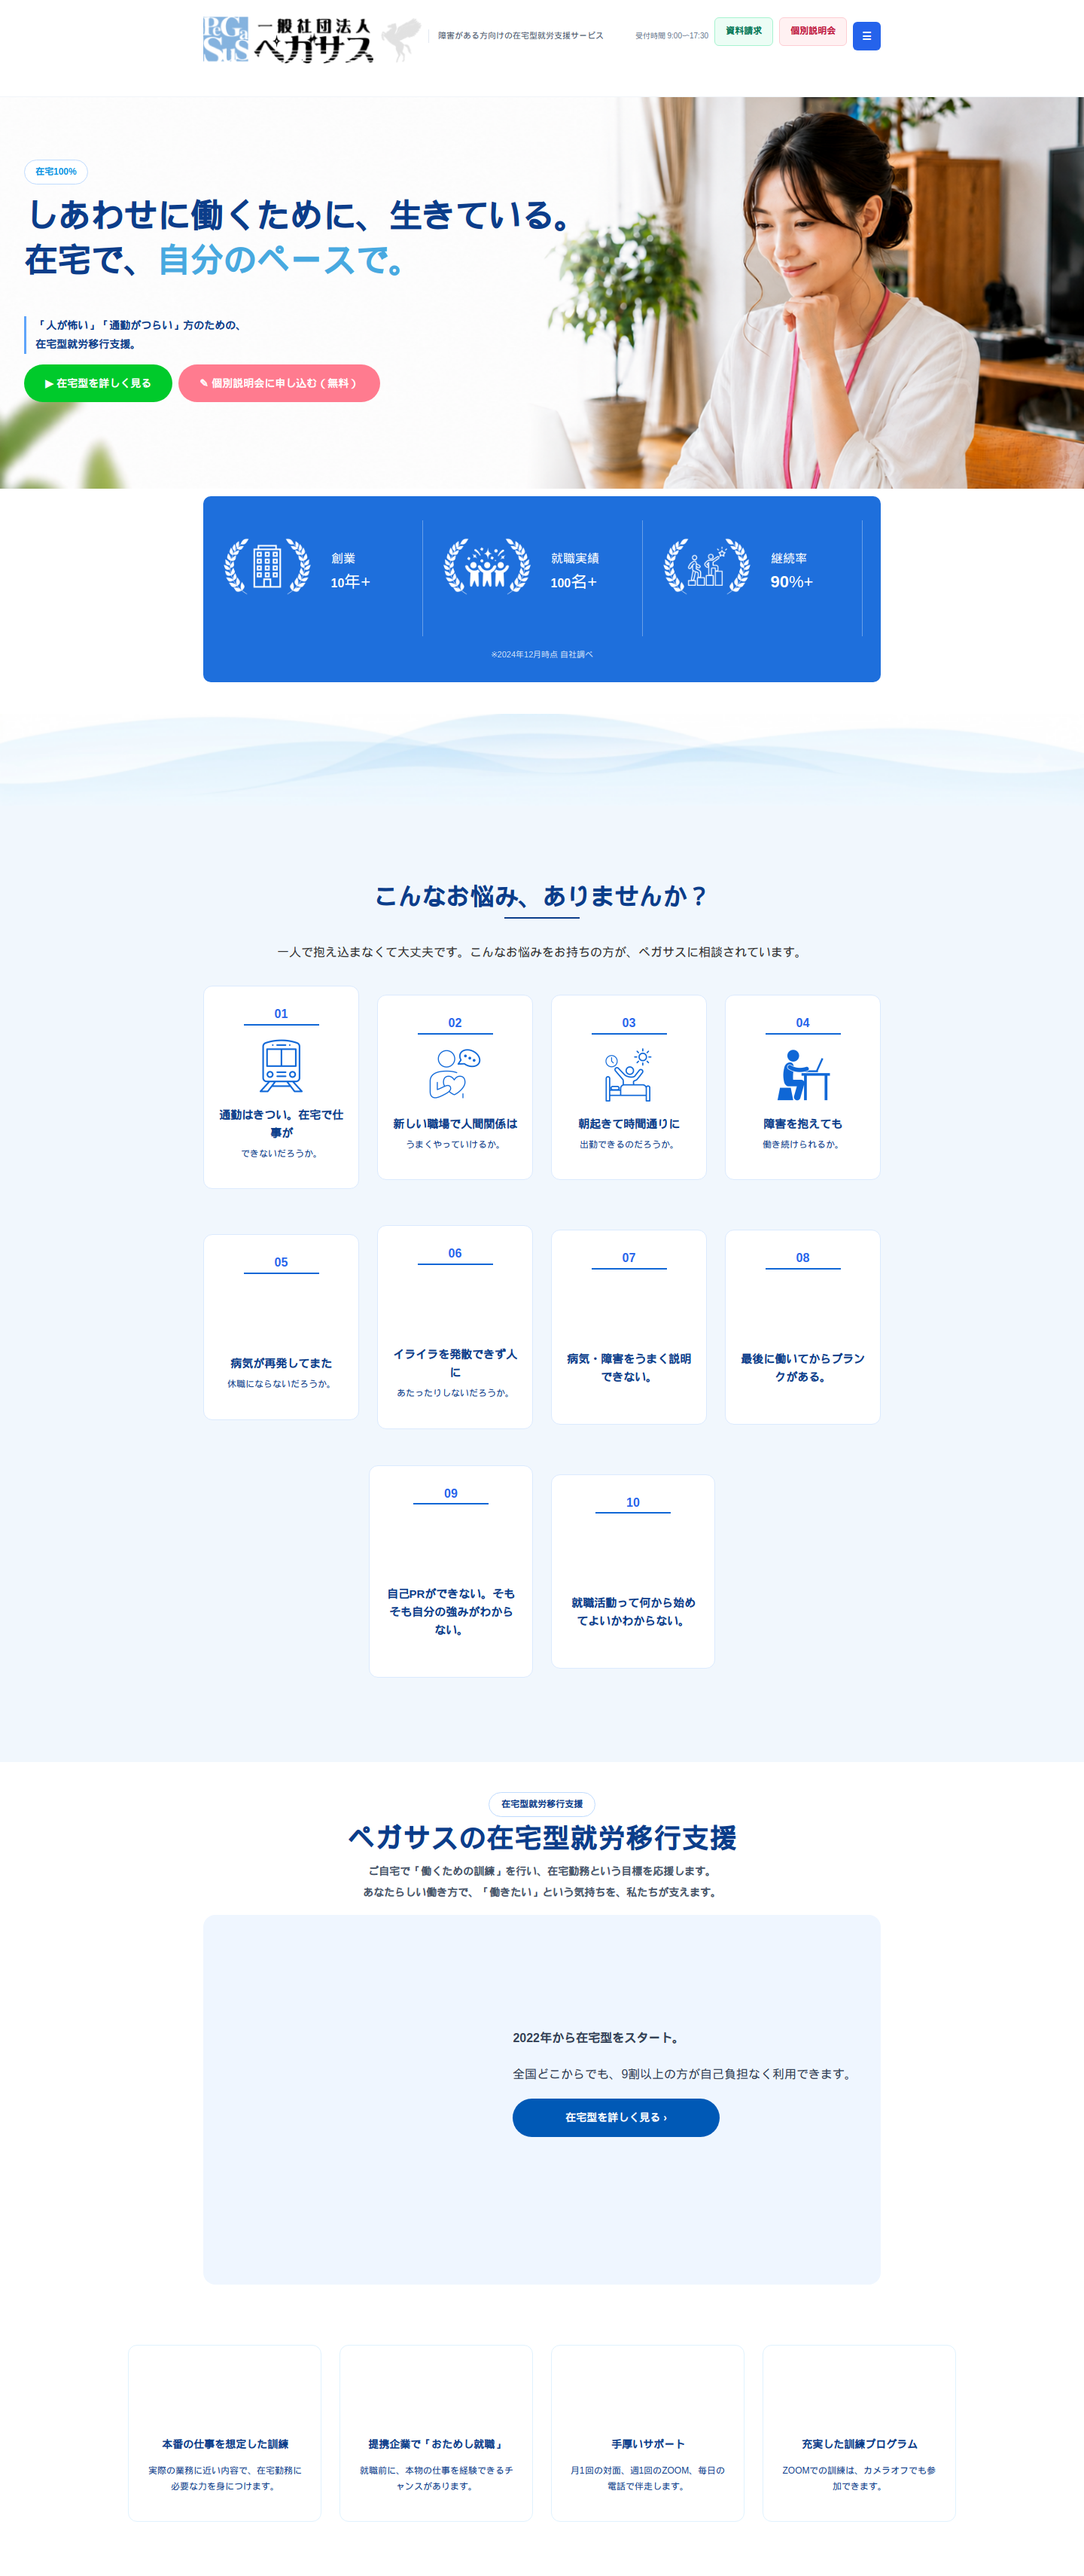
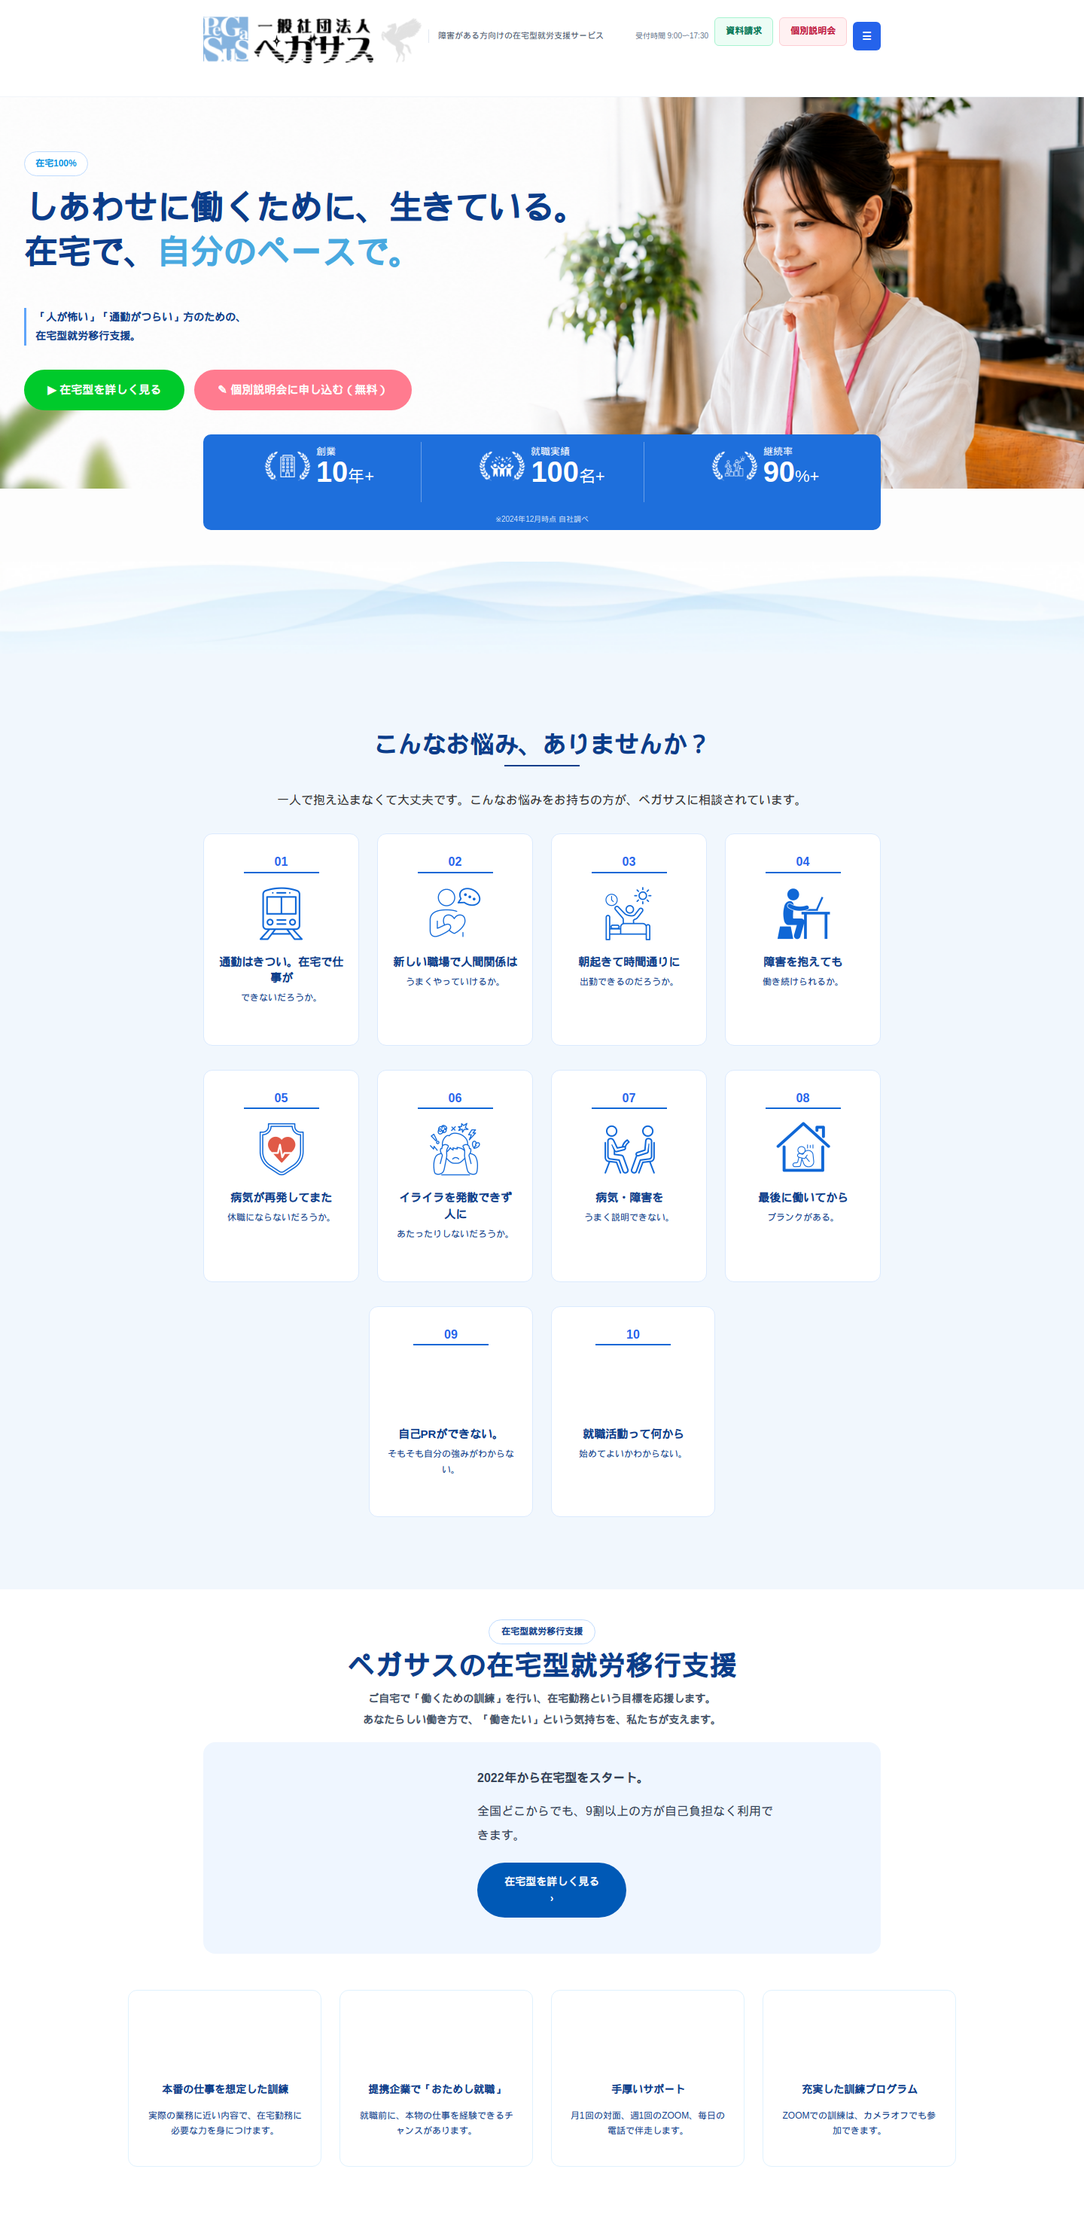
チェックポイント: 在宅支援 align 属性修正前
デスクトップ帯調整・お悩み07-10分割・在宅支援CSS(推測ベース)の作業状態を保存。

diff --git a/scripts/code-snippets/php/pega-css-04-homeworker.php b/scripts/code-snippets/php/pega-css-04-homeworker.php
@@ -181,38 +181,121 @@ add_action( 'wp_enqueue_scripts', function () {
 	margin: 0 auto !important;
 	display: table !important;
 }
-.page-id-4929 .pega-service-intro > .wp-block-group.u-mb-0 {
+.page-id-4929 .pega-service-intro > .wp-block-group.u-mb-0:not(.has-background) {
 	padding: 0 !important;
 }
 .page-id-4929 .pega-service-intro .supports {
 	margin-top: 80px !important;
 }
 
-/* swell-page (4929) — デスクトップ帯域(1025px+) 在宅支援画像の収まり（項目7） */
+/* swell-page (4929) — デスクトップ帯域(1025px+) 在宅支援レイアウト */
 @media (min-width: 1025px) {
+	.page-id-4929 .pega-service-intro .wp-block-group__inner-container > .wp-block-group.u-mb-10,
+	.page-id-4929 .pega-service-intro .wp-block-group.is-stack.u-mb-10 {
+		display: flex !important;
+		flex-direction: column !important;
+		align-items: center !important;
+		gap: 24px !important;
+		margin-bottom: 48px !important;
+		padding: 20px !important;
+	}
+
+	.page-id-4929 .pega-service-intro .wp-block-group.is-stack.u-mb-10 .pega-badge,
+	.page-id-4929 .pega-service-intro .wp-block-group.is-stack.u-mb-10 .is-style-section_ttl,
+	.page-id-4929 .pega-service-intro .wp-block-group.is-stack.u-mb-10 .sub-heading {
+		margin-top: 0 !important;
+		margin-bottom: 0 !important;
+	}
+
+	.page-id-4929 .pega-service-intro .wp-block-group.u-mb-0.has-background {
+		padding: 40px 36px !important;
+		margin-bottom: 48px !important;
+	}
+
 	.page-id-4929 .pega-service-intro .girl.wp-block-columns.alignwide {
 		width: 100% !important;
 		max-width: 100% !important;
 		margin-left: 0 !important;
 		margin-right: 0 !important;
-		align-items: flex-start !important;
+		align-items: stretch !important;
+		gap: 32px !important;
+		margin-bottom: 0 !important;
 	}
 
 	.page-id-4929 .pega-service-intro .girl .wp-block-column:first-child {
+		flex-basis: 50% !important;
+		width: 50% !important;
 		min-width: 0;
+		box-sizing: border-box;
+		padding: 12px 8px !important;
+		overflow: hidden;
+		border-radius: 12px;
+		display: flex;
+		align-items: center;
+	}
+
+	.page-id-4929 .pega-service-intro .girl .wp-block-column:last-child {
+		flex-basis: 50% !important;
+		width: 50% !important;
+		display: flex;
+		flex-direction: column;
+		justify-content: center;
+		gap: 16px;
+		padding: 8px 0;
+	}
+
+	.page-id-4929 .pega-service-intro .girl .wp-block-column:last-child p {
+		margin-top: 0 !important;
+		margin-bottom: 0 !important;
+	}
+
+	.page-id-4929 .pega-service-intro .girl .wp-block-column:last-child .wp-block-buttons {
+		margin-top: 4px !important;
 	}
 
 	.page-id-4929 .pega-service-intro .girl .wp-block-column:first-child .wp-block-image.alignleft {
 		float: none;
 		display: block;
-		max-width: 100%;
+		width: 100%;
+		height: 100%;
+		min-height: 0;
+		margin: 0;
+		border-radius: 10px;
+		overflow: hidden;
 	}
 
 	.page-id-4929 .pega-service-intro .girl .wp-block-column:first-child .wp-block-image img {
-		max-width: 100% !important;
-		max-height: 220px !important;
-		height: auto !important;
-		object-fit: contain;
+		display: block;
+		width: 100% !important;
+		height: 100% !important;
+		max-width: none !important;
+		max-height: none !important;
+		object-fit: cover !important;
+		object-position: center 22%;
+	}
+
+	.page-id-4929 .pega-service-intro .girl .wp-block-button.has-custom-width {
+		width: auto !important;
+		max-width: 100%;
+	}
+
+	.page-id-4929 .pega-service-intro .girl .pega-btn-primary .wp-block-button__link {
+		display: inline-flex !important;
+		align-items: center !important;
+		justify-content: center !important;
+		gap: 0.35em;
+		width: auto !important;
+		min-width: 240px;
+		min-height: 50px;
+		padding: 14px 32px !important;
+		white-space: nowrap !important;
+		line-height: 1.4 !important;
+		text-align: center;
+		box-sizing: border-box;
+	}
+
+	.page-id-4929 .pega-service-intro .supports {
+		margin-top: 56px !important;
 	}
 }
 CSS;

diff --git a/scripts/pega-fix-concerns-split-4941.php b/scripts/pega-fix-concerns-split-4941.php
@@ -1,0 +1,106 @@
+<?php
+/**
+ * 4941 お悩みカード 07〜10: 見出し+説明文の2段構成に統一（4865 原文を分割のみ）
+ * Usage: docker cp ... && wp eval-file pega-fix-concerns-split-4941.php --allow-root --path=/var/www/html
+ */
+
+if ( ! function_exists( 'parse_blocks' ) ) {
+	echo "WordPress not loaded\n";
+	exit( 1 );
+}
+
+$splits = [
+	'お悩み07' => [ 'title' => '病気・障害を', 'desc' => 'うまく説明できない。' ],
+	'お悩み08' => [ 'title' => '最後に働いてから', 'desc' => 'ブランクがある。' ],
+	'お悩み09' => [ 'title' => '自己PRができない。', 'desc' => 'そもそも自分の強みがわからない。' ],
+	'お悩み10' => [ 'title' => '就職活動って何から', 'desc' => '始めてよいかわからない。' ],
+];
+
+function pega_esc( string $text ): string {
+	return htmlspecialchars( $text, ENT_QUOTES | ENT_HTML5, 'UTF-8' );
+}
+
+function pega_desc_paragraph( string $desc ): array {
+	return [
+		'blockName'    => 'core/paragraph',
+		'attrs'        => [
+			'className' => 'has-contrast-2-color has-text-color',
+			'style'     => [
+				'typography' => [
+					'fontSize'   => '12px',
+					'lineHeight' => '1.7',
+					'textAlign'  => 'center',
+				],
+				'color'      => [ 'text' => '#0b3d8a' ],
+			],
+		],
+		'innerBlocks'  => [],
+		'innerHTML'    => "\n<p class=\"has-text-align-center has-contrast-2-color has-text-color\" style=\"color:#0b3d8a;font-size:12px;line-height:1.7\">" . pega_esc( $desc ) . "</p>\n",
+		'innerContent' => [ "\n<p class=\"has-text-align-center has-contrast-2-color has-text-color\" style=\"color:#0b3d8a;font-size:12px;line-height:1.7\">" . pega_esc( $desc ) . "</p>\n" ],
+	];
+}
+
+function pega_update_wave_boxes( array &$blocks, array $splits, int &$count ): bool {
+	$changed = false;
+	foreach ( $blocks as &$block ) {
+		$name = $block['attrs']['metadata']['name'] ?? '';
+		if ( str_contains( $block['attrs']['className'] ?? '', 'wave-box' ) && isset( $splits[ $name ] ) ) {
+			$split = $splits[ $name ];
+			foreach ( $block['innerBlocks'] as &$child ) {
+				if ( ( $child['blockName'] ?? '' ) === 'core/heading' ) {
+					$title                           = $split['title'];
+					$child['innerHTML']              = "\n<h4 class=\"wp-block-heading has-text-align-center has-text-color\" style=\"color:#0b3d8a;font-size:15px;font-weight:700\">" . pega_esc( $title ) . "</h4>\n";
+					$child['innerContent']           = [ $child['innerHTML'] ];
+					$child['attrs']['style']['typography']['fontWeight'] = '700';
+					unset( $child['attrs']['style']['typography']['fontSize'] );
+					$changed = true;
+				}
+				if ( ( $child['blockName'] ?? '' ) === 'core/paragraph' && str_contains( $child['attrs']['className'] ?? '', 'wave-box__desc-spacer' ) ) {
+					$child = pega_desc_paragraph( $split['desc'] );
+					$changed = true;
+				}
+			}
+			unset( $child );
+			$count++;
+		}
+		if ( ! empty( $block['innerBlocks'] ) && pega_update_wave_boxes( $block['innerBlocks'], $splits, $count ) ) {
+			$changed = true;
+		}
+	}
+	unset( $block );
+	return $changed;
+}
+
+$post_id = 4941;
+$post    = get_post( $post_id );
+if ( ! $post ) {
+	echo "Post $post_id not found\n";
+	exit( 1 );
+}
+
+$blocks = parse_blocks( $post->post_content );
+$count  = 0;
+if ( ! pega_update_wave_boxes( $blocks, $splits, $count ) ) {
+	echo "No wave-box cards updated\n";
+	exit( 1 );
+}
+
+$result = wp_update_post(
+	[
+		'ID'           => $post_id,
+		'post_content' => serialize_blocks( $blocks ),
+	],
+	true
+);
+
+if ( is_wp_error( $result ) ) {
+	echo 'Update failed: ' . $result->get_error_message() . "\n";
+	exit( 1 );
+}
+
+echo "Updated $count cards in post $post_id\n";
+foreach ( $splits as $name => $split ) {
+	echo "$name: {$split['title']} | {$split['desc']}\n";
+}
+
+exit( 0 );

diff --git a/scripts/code-snippets/php/pega-css-20-global-layout.php b/scripts/code-snippets/php/pega-css-20-global-layout.php
@@ -263,11 +263,11 @@ body.pega-has-sticky-cta .home .p-fixBtnWrap {
 	}
 
 	.page-id-4929 .pega-stats .achivement {
-		padding: 14px 20px 12px !important;
+		padding: 10px 18px 8px !important;
 	}
 
 	.page-id-4929 .pega-stats .achivement .box-achievement > .wp-block-columns {
-		gap: 8px !important;
+		gap: 6px !important;
 		justify-content: center;
 		width: fit-content;
 		max-width: 100%;
@@ -288,17 +288,34 @@ body.pega-has-sticky-cta .home .p-fixBtnWrap {
 	.page-id-4929 .pega-stats .achivement .box-achievement .wp-block-image img {
 		display: block;
 		width: auto;
-		max-height: 52px;
+		max-height: 64px;
 		height: auto;
 	}
 
+	.page-id-4929 .pega-stats .achivement .box-achievement .wp-block-column.is-vertically-aligned-center > p.has-text-align-left:first-of-type {
+		font-size: 13px !important;
+		line-height: 1.2 !important;
+	}
+
+	.page-id-4929 .pega-stats .achivement .box-achievement .number-text {
+		font-size: 38px !important;
+		line-height: 1 !important;
+	}
+
+	.page-id-4929 .pega-stats .achivement .box-achievement .wp-block-column.is-vertically-aligned-center > p.has-text-align-left + p {
+		font-size: 24px !important;
+		line-height: 1.05 !important;
+	}
+
 	.page-id-4929 .pega-stats .achivement .box-achievement .wp-block-column.is-vertically-aligned-center p + p {
-		margin-top: 2px;
+		margin-top: 0 !important;
 	}
 
 	.page-id-4929 .pega-stats .achivement .bottom-text {
-		margin-top: 8px !important;
+		margin-top: 6px !important;
 		padding-bottom: 0;
+		font-size: 10px !important;
+		line-height: 1.3 !important;
 	}
 
 	/* 項目4: 末尾の区切り線を除去 */
@@ -313,9 +330,9 @@ body.pega-has-sticky-cta .home .p-fixBtnWrap {
 		align-items: center;
 	}
 
-	/* 項目3: FV 下端へ実績バーを約半分重ねる（項目2圧縮後の高さ基準） */
+	/* FV 下端へ実績バーを約半分重ねる（高さ127px基準 → 50%） */
 	.page-id-4929 .pega-stats .achivement {
-		margin-top: -68px;
+		margin-top: -64px;
 		position: relative;
 		z-index: 5;
 	}

diff --git a/scripts/pega-update-concerns-4941.php b/scripts/pega-update-concerns-4941.php
@@ -17,10 +17,10 @@ $items = [
 	[ 'title' => '障害を抱えても', 'desc' => '働き続けられるか。', 'img' => 5261 ],
 	[ 'title' => '病気が再発してまた', 'desc' => '休職にならないだろうか。', 'img' => 5256 ],
 	[ 'title' => 'イライラを発散できず人に', 'desc' => 'あたったりしないだろうか。', 'img' => 5262 ],
-	[ 'title' => '病気・障害をうまく説明できない。', 'desc' => '', 'img' => 5263 ],
-	[ 'title' => '最後に働いてからブランクがある。', 'desc' => '', 'img' => 5259 ],
-	[ 'title' => '自己PRができない。そもそも自分の強みがわからない。', 'desc' => '', 'img' => 5258 ],
-	[ 'title' => '就職活動って何から始めてよいかわからない。', 'desc' => '', 'img' => 5260 ],
+	[ 'title' => '病気・障害を', 'desc' => 'うまく説明できない。', 'img' => 5263 ],
+	[ 'title' => '最後に働いてから', 'desc' => 'ブランクがある。', 'img' => 5259 ],
+	[ 'title' => '自己PRができない。', 'desc' => 'そもそも自分の強みがわからない。', 'img' => 5258 ],
+	[ 'title' => '就職活動って何から', 'desc' => '始めてよいかわからない。', 'img' => 5260 ],
 ];
 
 function pega_find_wave_section( array $blocks ): ?array {

diff --git a/scripts/code-snippets/php/pega-css-02-concerns.php b/scripts/code-snippets/php/pega-css-02-concerns.php
@@ -220,6 +220,25 @@ add_action( 'wp_enqueue_scripts', function () {
 		height: 100%;
 		box-sizing: border-box;
 	}
+
+	.page-id-4929 .wave-section .wave-box h4 {
+		font-size: 15px !important;
+		font-weight: 700 !important;
+		color: #0b3d8a !important;
+		line-height: 1.45 !important;
+		text-wrap: pretty;
+		word-break: normal;
+		overflow-wrap: anywhere;
+	}
+
+	.page-id-4929 .wave-section .wave-box > p.has-contrast-2-color:not(.wave-box__desc-spacer) {
+		font-size: 12px !important;
+		font-weight: 400 !important;
+		line-height: 1.7 !important;
+		color: #0b3d8a !important;
+		text-wrap: pretty;
+		overflow-wrap: anywhere;
+	}
 }
 CSS;
 	wp_register_style( 'pega-css-02-concerns', false, array( 'child_style' ), null );

diff --git a/scripts/code-snippets/php/pega-css-09-hero.php b/scripts/code-snippets/php/pega-css-09-hero.php
@@ -294,8 +294,13 @@ add_action( 'wp_enqueue_scripts', function () {
 
 /* swell-page (4929) — デスクトップ帯域(1025px+) FV CTA 約10%拡大（項目1） */
 @media (min-width: 1025px) {
+	.page-id-4929 .main-text .wp-block-paragraph.has-text-color[style*="border-left"] {
+		margin-bottom: 8px !important;
+	}
+
 	.page-id-4929 .main-text .wp-block-buttons {
 		gap: 13px !important;
+		margin-top: 24px !important;
 	}
 
 	.page-id-4929 .main-text .btn-apply .wp-block-button__link,
